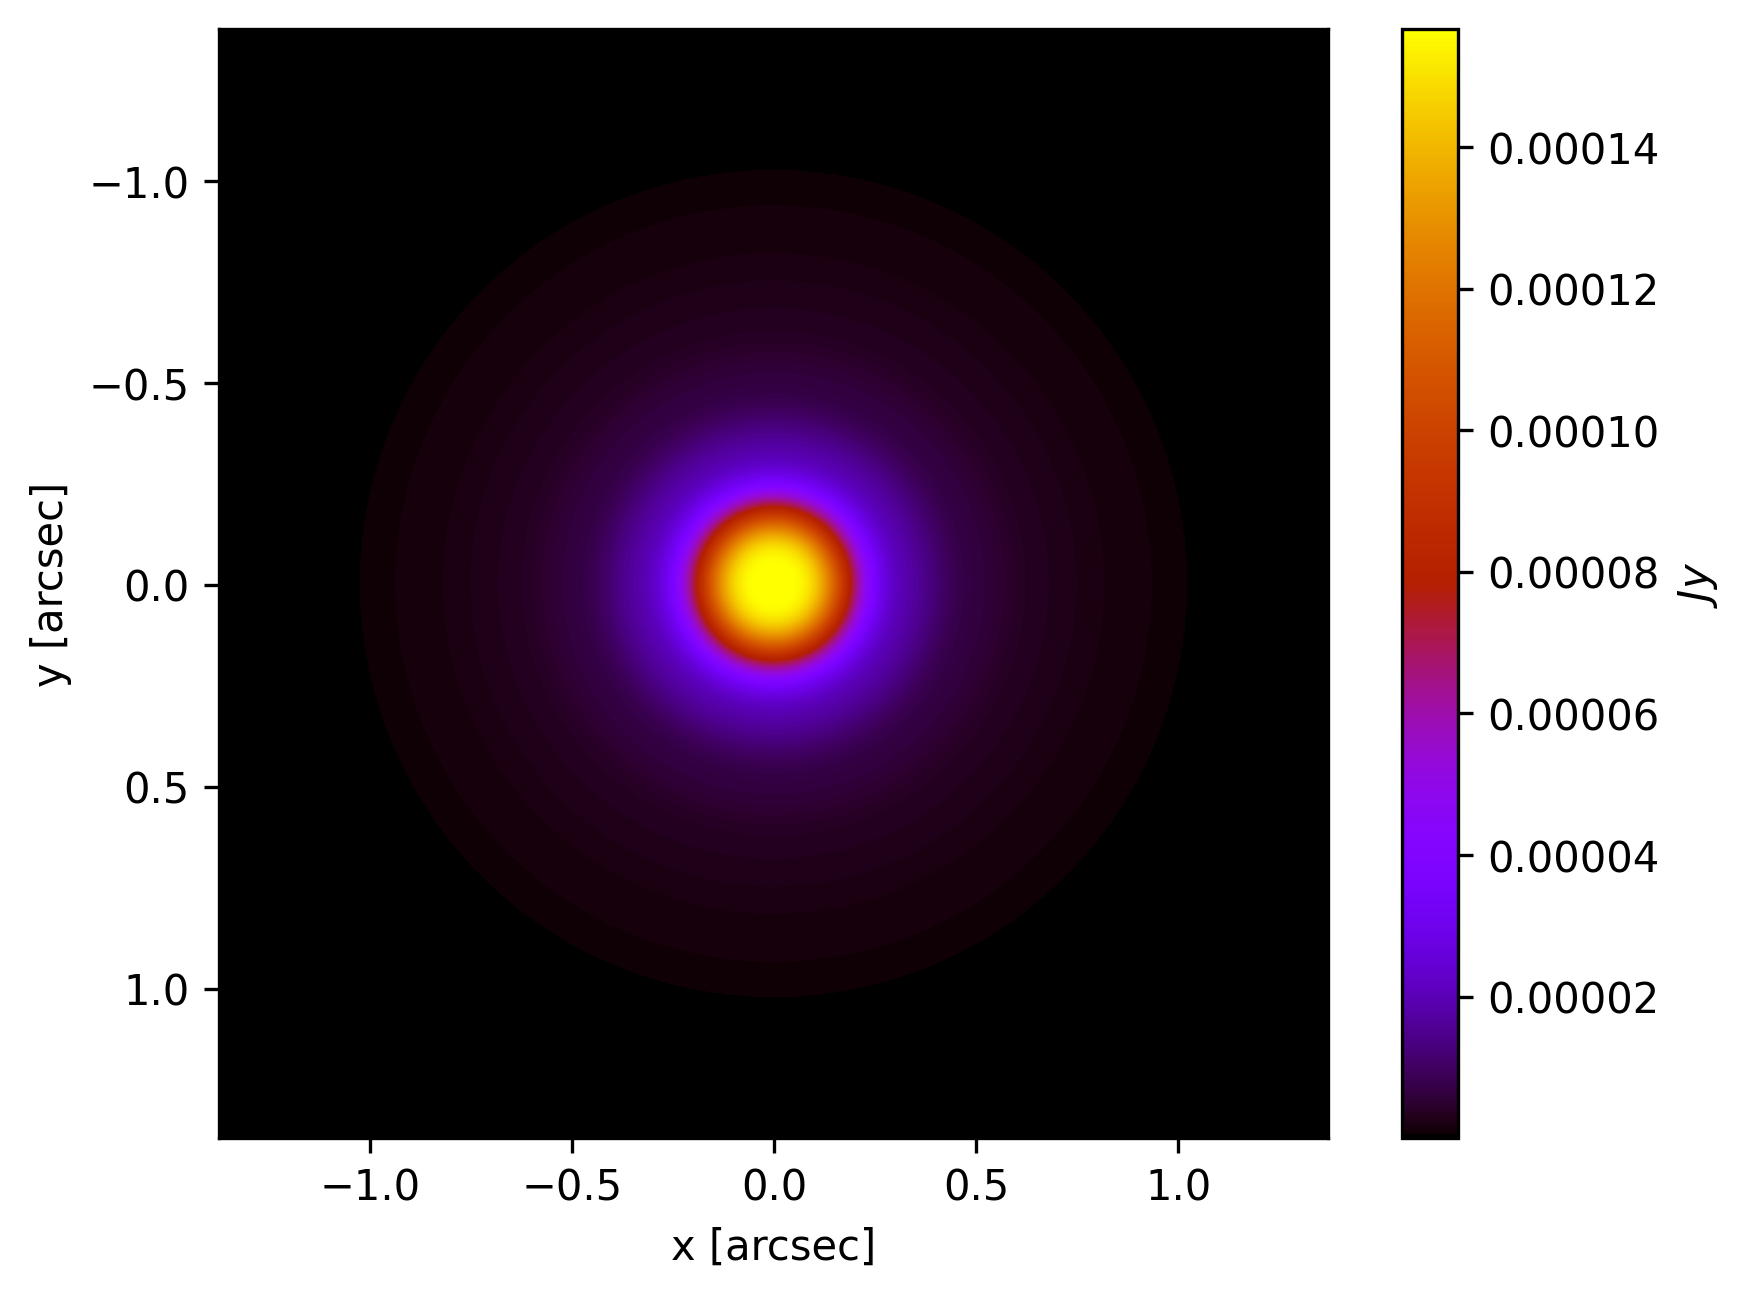
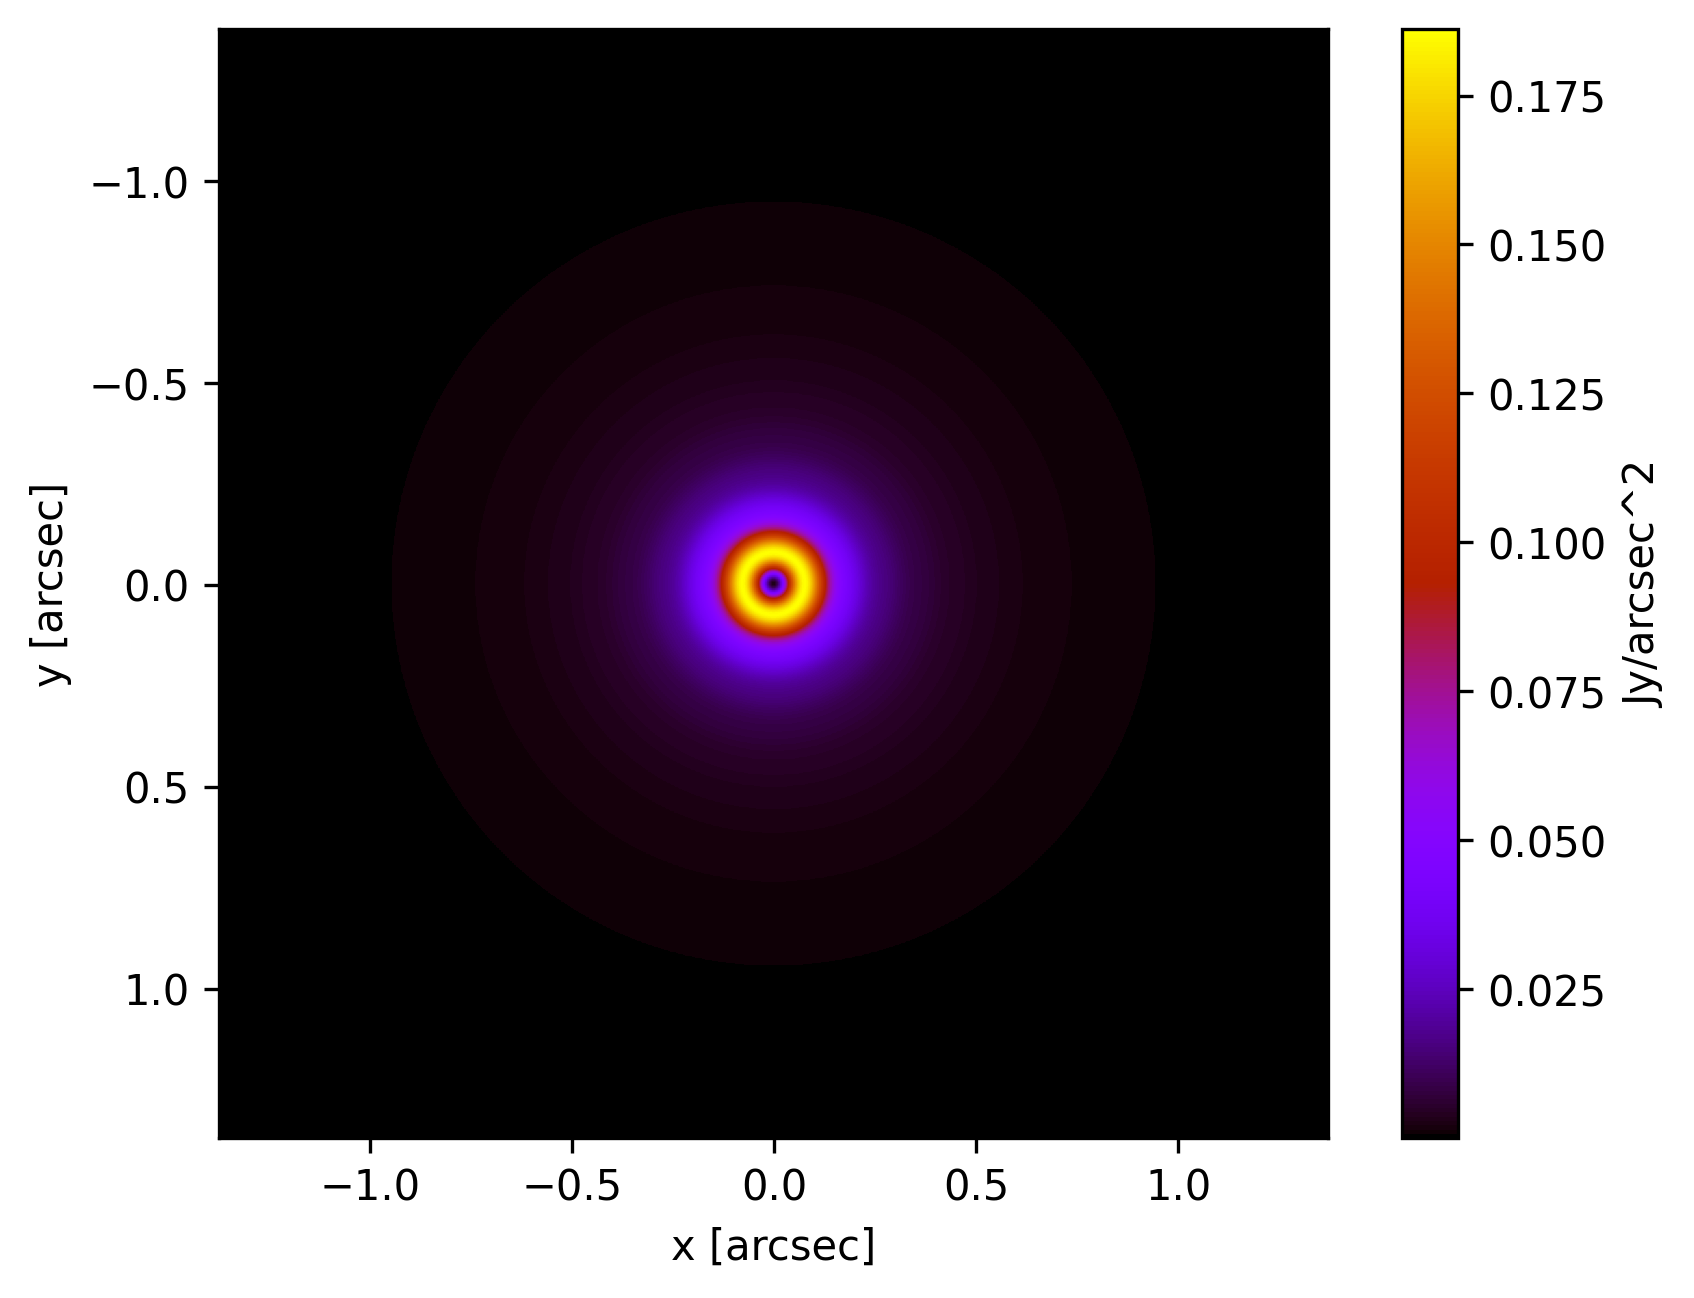
tests

diff --git a/tests/test.py b/tests/test.py
@@ -1,19 +1,63 @@
 import toycoronagraph.main as toy
 
-#load the example target image (example.fits) in Toy_Coronagraph/toycoronagraph/example_data/ folder
+# Load the example target image (example.fits) in Toy_Coronagraph/toycoronagraph/example_data/ folder
 toy_target = toy.Target()
 
-#plot the preimage, and the image will auto save in origin.png
+# Plot the preimage; the image will auto-save to origin.png
 toy_target.plot_origin()
 
-#plot the final image through vortex coronagraph with charge = 2, and the image will auto save in charge2_final.png
-charge = 2
-toy_target.plot_final(charge)
+# Plot the final image through vortex coronagraph with charge = 2; the image will auto-save to charge2_final.png
+toy_target.plot_final(charge=2)
 
-#now add a planet
-toy_target.add_planet(pos=[100,0], brightness=0.001)
+# Plot the final image through vortex coronagraph with charge = 6; the image will auto-save to charge6_final.png
+toy_target.plot_final(charge=6)
 
-#plot the final image with planets
-#plot_final(self, charge, coronagraph_type='vortex', add_planet=True, img_pixel=512, psf_range=16, rot_number=360, plot_dpi=300)
-charge = 2
-toy_target.plot_final(charge)
+# Now add a static planet, where pos=(x_position, y_position)
+toy_target.add_planet(pos=[0.5,0], brightness=0.00005, mode="cartesian")
+
+# You could also add a moving planet on an elliptic orbit, where pos=(length of the semi-major axis, eccentricity, position angle, inclination angle, time/period))
+toy_target.add_planet(pos=[0.5,0.6,60,0,0.1], brightness=0.00003, mode="moving")
+
+# Plot the preimage with planets; the image will auto-save to origin_with_planets.png
+toy_target.plot_origin()
+
+# Plot the final image with planets; the image will auto-save to charge6_with_planets_final.png
+toy_target.plot_final(charge=6)
+
+# Plot the final image by turning off the target inside IWA; the image will auto-save to charge6_with_planets_iwa_ignore_final.png
+toy_target.plot_final(charge=6, iwa_ignore=True)
+
+# List the planets
+toy_target.list_planets()
+'''
+Static Planet 1: (0.5, 0.0) arcsec, brightness: 5.00e-05 Jy
+Moving Planet 2: (-0.3818058424930897, 0.08394161212137384) arcsec, brightness: 3.00e-05 Jy
+'''
+
+# Delete a specific planet
+toy_target.delete_planet(order=1)
+'''
+Successfully remove planet #1, here is the latest planet list:
+Moving Planet 1: (-0.3818058424930897, 0.08394161212137384) arcsec, brightness: 3.00e-05 Jy
+'''
+
+# Move a moving planet on its orbit by time/period=0.1
+toy_target.planet_move(time=0.1, order=1)
+'''
+Planet has moved to new position
+'''
+
+# Plot the orbit of a specific moving planet; the image will auto-save to oribit_planet#.png
+toy_target.plot_orbit(order=1)
+
+# Plot the new preimage with planets; the image will auto-save to origin_with_planets.png
+toy_target.plot_origin()
+
+# Plot the new final image with planets; the image will auto-save to charge6_with_planets_final.png
+toy_target.plot_final(charge=6)
+
+# Print a specific planet brightness, background brightness, and background brightness (ignored dust inside IWA) in the final image through vortex coronagraph with charge = 6
+toy_target.contrast(charge=6, order=1)
+'''
+(1.1044442178760744e-05, 1.7104037862959554e-05, 1.6625126181290586e-05)
+'''

diff --git a/toycoronagraph/psf.py b/toycoronagraph/psf.py
@@ -135,7 +135,7 @@ def cir_psf_contrast(pre_img, planet_psfs_number, planet_angle, planet_brightnes
         psfs_name (str): Name of the file containing PSFs.
 
     Returns:
-        brightness (tuple): target brightness, background brightness, background brightness (ignored dust inside IWA) in Jy.
+        brightness (tuple): planet brightness, background brightness, background brightness (ignored dust inside IWA) in Jy.
     """
     # Initialize an empty image chunk
     chunk_img = np.zeros([img_pixel, img_pixel])

diff --git a/README.md b/README.md
@@ -43,29 +43,93 @@ example target           |  Final image (Charge=2)  |  Final image (Charge=6)
 :-------------------------:|:-------------------------:|:-------------------------:
 ![origin](./static/origin.png) | ![charge2_final](./static/charge2_final.png) | ![charge6_final](./static/charge6_final.png)
 
-#### with planet
-Final image (Charge=2)  |  Final image (Charge=4)
-:-------------------------:|:-------------------------:
-![charge2_final](./static/charge2_with_planets_final.png) | ![charge6_final](./static/charge4_with_planets_final.png)
+#### with planets
 
-#### planet moving
+Pre-image  |  Final image (Charge=6)
+:-------------------------:|:-------------------------:
+![Pre_image](./static/origin_with_planets.png) | ![charge6_final](./static/charge6_with_planets_final.png)
+
+#### Turn on/off dust inside IWA
+
+Final image (Charge=6)  |  Final image but ignored dust inside IWA (Charge=6)
+:-------------------------:|:-------------------------:
+![Pre_image](./static/origin_with_planets.png) | ![charge6_final](./static/charge6_with_planets_iwa_ignore_final.png)
+
+#### Moving planet on an elliptic orbit
 Frame definition
 :-------------------------:
 ![frame](./static/frame.svg)
+
+Plot the orbit
+:-------------------------:
+![frame](./static/oribit_planet1.png)
+
 
 ### Example usage (Python)
 This [py file](./tests/test.py) illustrates how the Python package is used.
 ```Python
 import toycoronagraph.main as toy
 
-#load the example target image (example.fits) in Toy_Coronagraph/toycoronagraph/example_data/ folder
+# Load the example target image (example.fits) in Toy_Coronagraph/toycoronagraph/example_data/ folder
 toy_target = toy.Target()
 
-#plot the preimage, and the image will auto save in origin.png
+# Plot the preimage; the image will auto-save to origin.png
 toy_target.plot_origin()
 
-#plot the final image through vortex coronagraph with charge = 2, and the image will auto save in charge2_final.png
-charge = 2
-toy_target.plot_final(charge)
+# Plot the final image through vortex coronagraph with charge = 2; the image will auto-save to charge2_final.png
+toy_target.plot_final(charge=2)
+
+# Plot the final image through vortex coronagraph with charge = 6; the image will auto-save to charge6_final.png
+toy_target.plot_final(charge=6)
+
+# Now add a static planet, where pos=(x_position, y_position)
+toy_target.add_planet(pos=[0.5,0], brightness=0.00005, mode="cartesian")
+
+# You could also add a moving planet on an elliptic orbit, where pos=(length of the semi-major axis, eccentricity, position angle, inclination angle, time/period))
+toy_target.add_planet(pos=[0.5,0.6,60,0,0.1], brightness=0.00003, mode="moving")
+
+# Plot the preimage with planets; the image will auto-save to origin_with_planets.png
+toy_target.plot_origin()
+
+# Plot the final image with planets; the image will auto-save to charge6_with_planets_final.png
+toy_target.plot_final(charge=6)
+
+# Plot the final image by turning off the target inside IWA; the image will auto-save to charge6_with_planets_iwa_ignore_final.png
+toy_target.plot_final(charge=6, iwa_ignore=True)
+
+# List the planets
+toy_target.list_planets()
+'''
+Static Planet 1: (0.5, 0.0) arcsec, brightness: 5.00e-05 Jy
+Moving Planet 2: (-0.3818058424930897, 0.08394161212137384) arcsec, brightness: 3.00e-05 Jy
+'''
+
+# Delete a specific planet
+toy_target.delete_planet(order=1)
+'''
+Successfully remove planet #1, here is the latest planet list:
+Moving Planet 1: (-0.3818058424930897, 0.08394161212137384) arcsec, brightness: 3.00e-05 Jy
+'''
+
+# Move a moving planet on its orbit by time/period=0.1
+toy_target.planet_move(time=0.1, order=1)
+'''
+Planet has moved to new position
+'''
+
+# Plot the orbit of a specific moving planet; the image will auto-save to oribit_planet#.png
+toy_target.plot_orbit(order=1)
+
+# Plot the new preimage with planets; the image will auto-save to origin_with_planets.png
+toy_target.plot_origin()
+
+# Plot the new final image with planets; the image will auto-save to charge6_with_planets_final.png
+toy_target.plot_final(charge=6)
+
+# Print a specific planet brightness, background brightness, and background brightness (ignored dust inside IWA) in the final image through vortex coronagraph with charge = 6
+toy_target.contrast(charge=6, order=1)
+'''
+(1.1044442178760744e-05, 1.7104037862959554e-05, 1.6625126181290586e-05)
+'''
 ```
 More instructions could be found in [docs](https://dreamjade.github.io/Toy_Coronagraph/).
